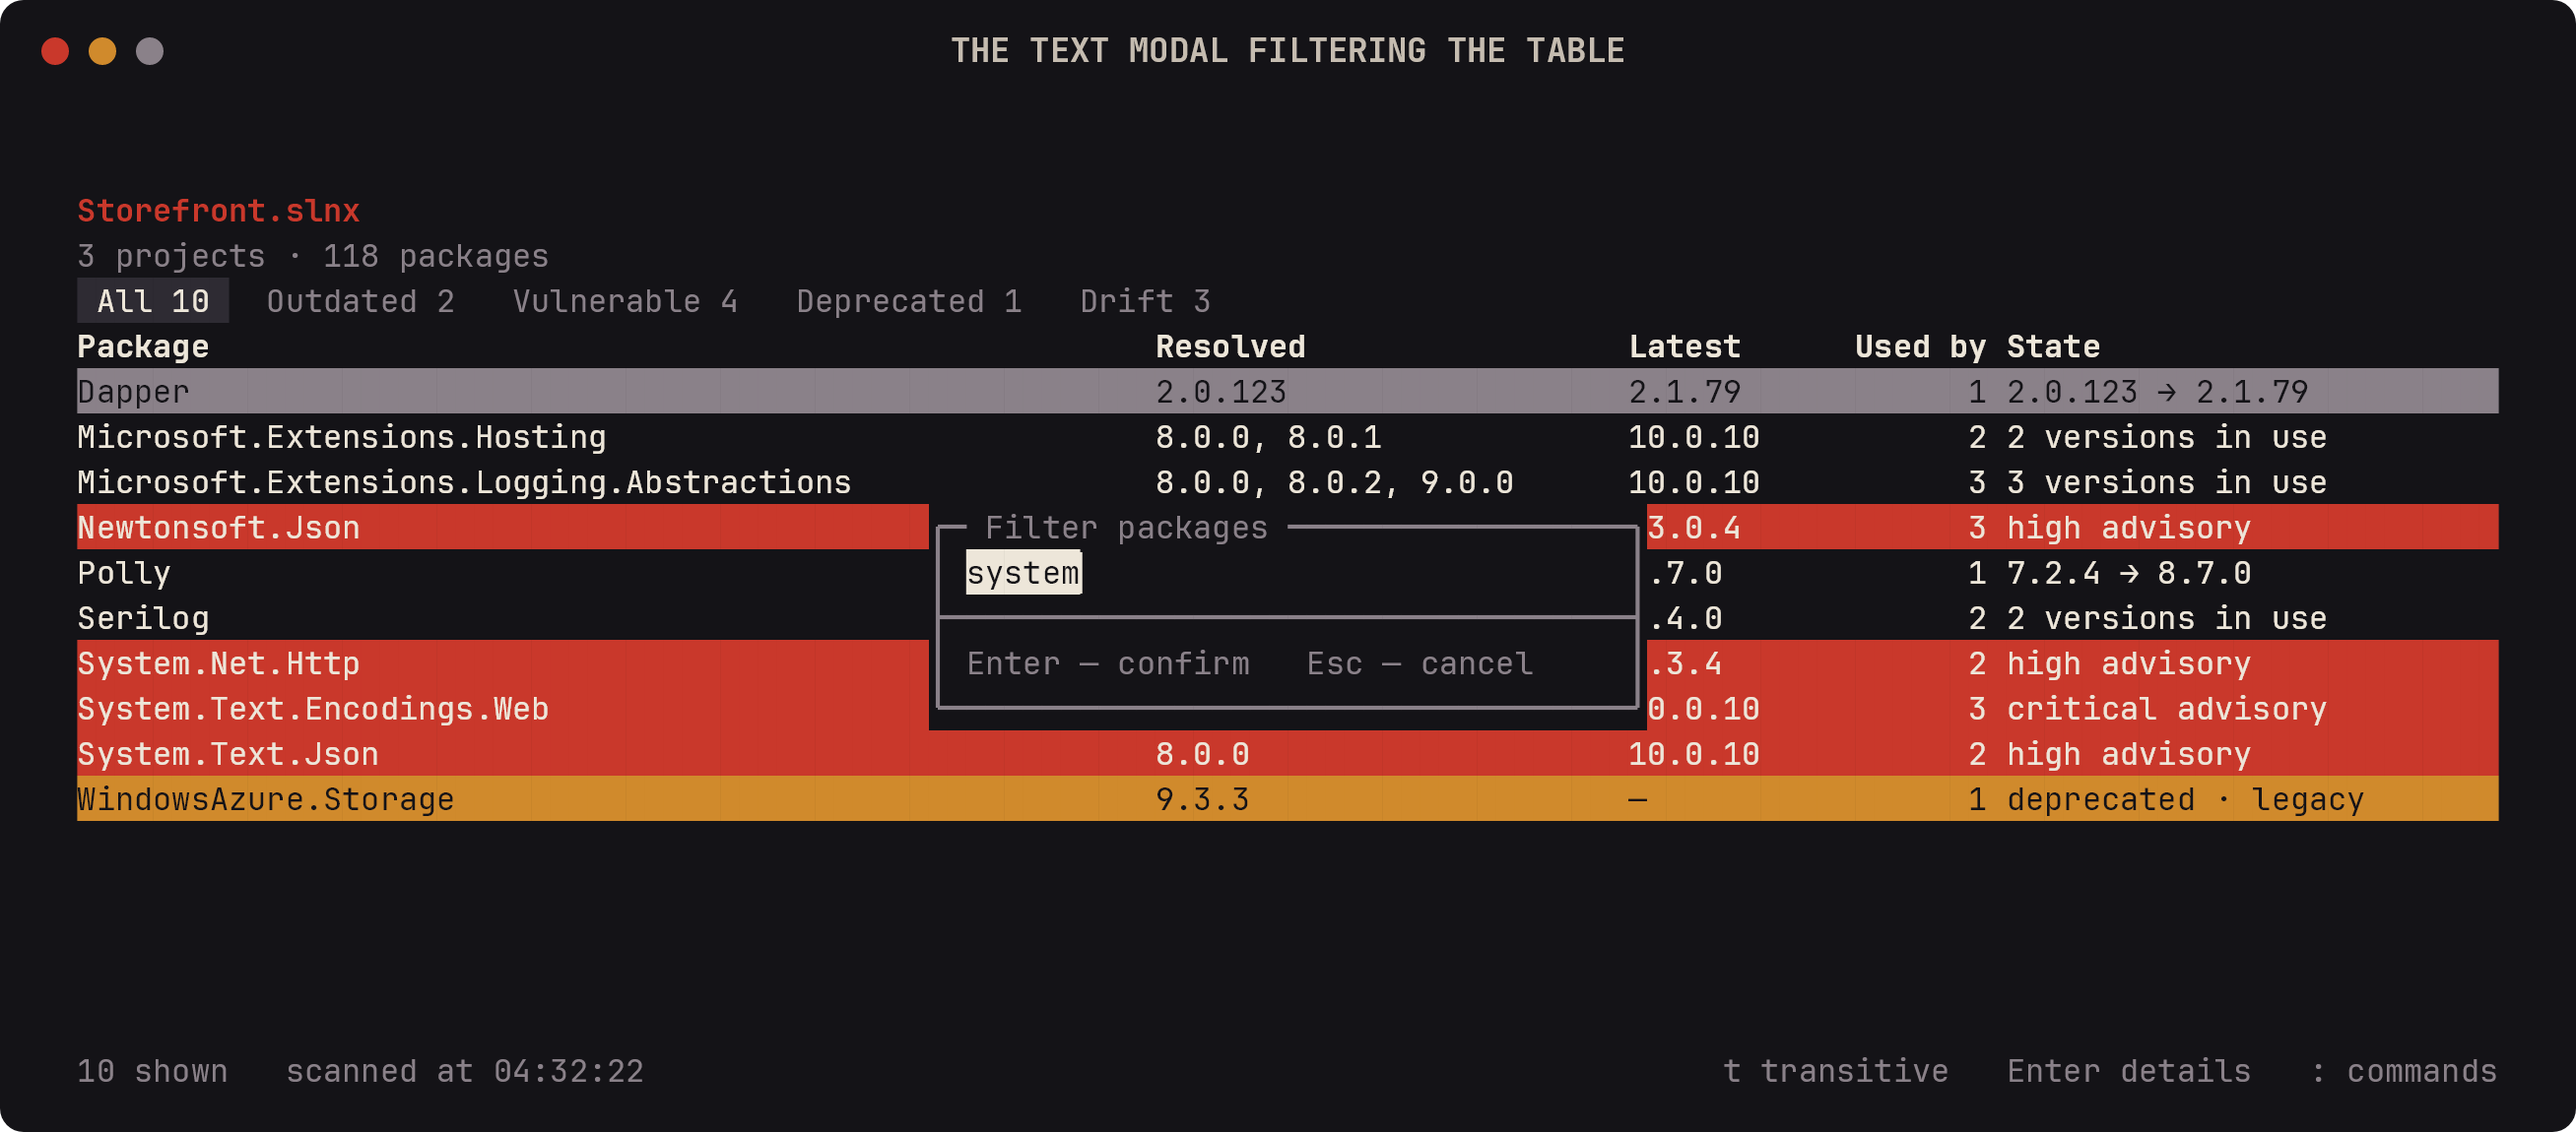
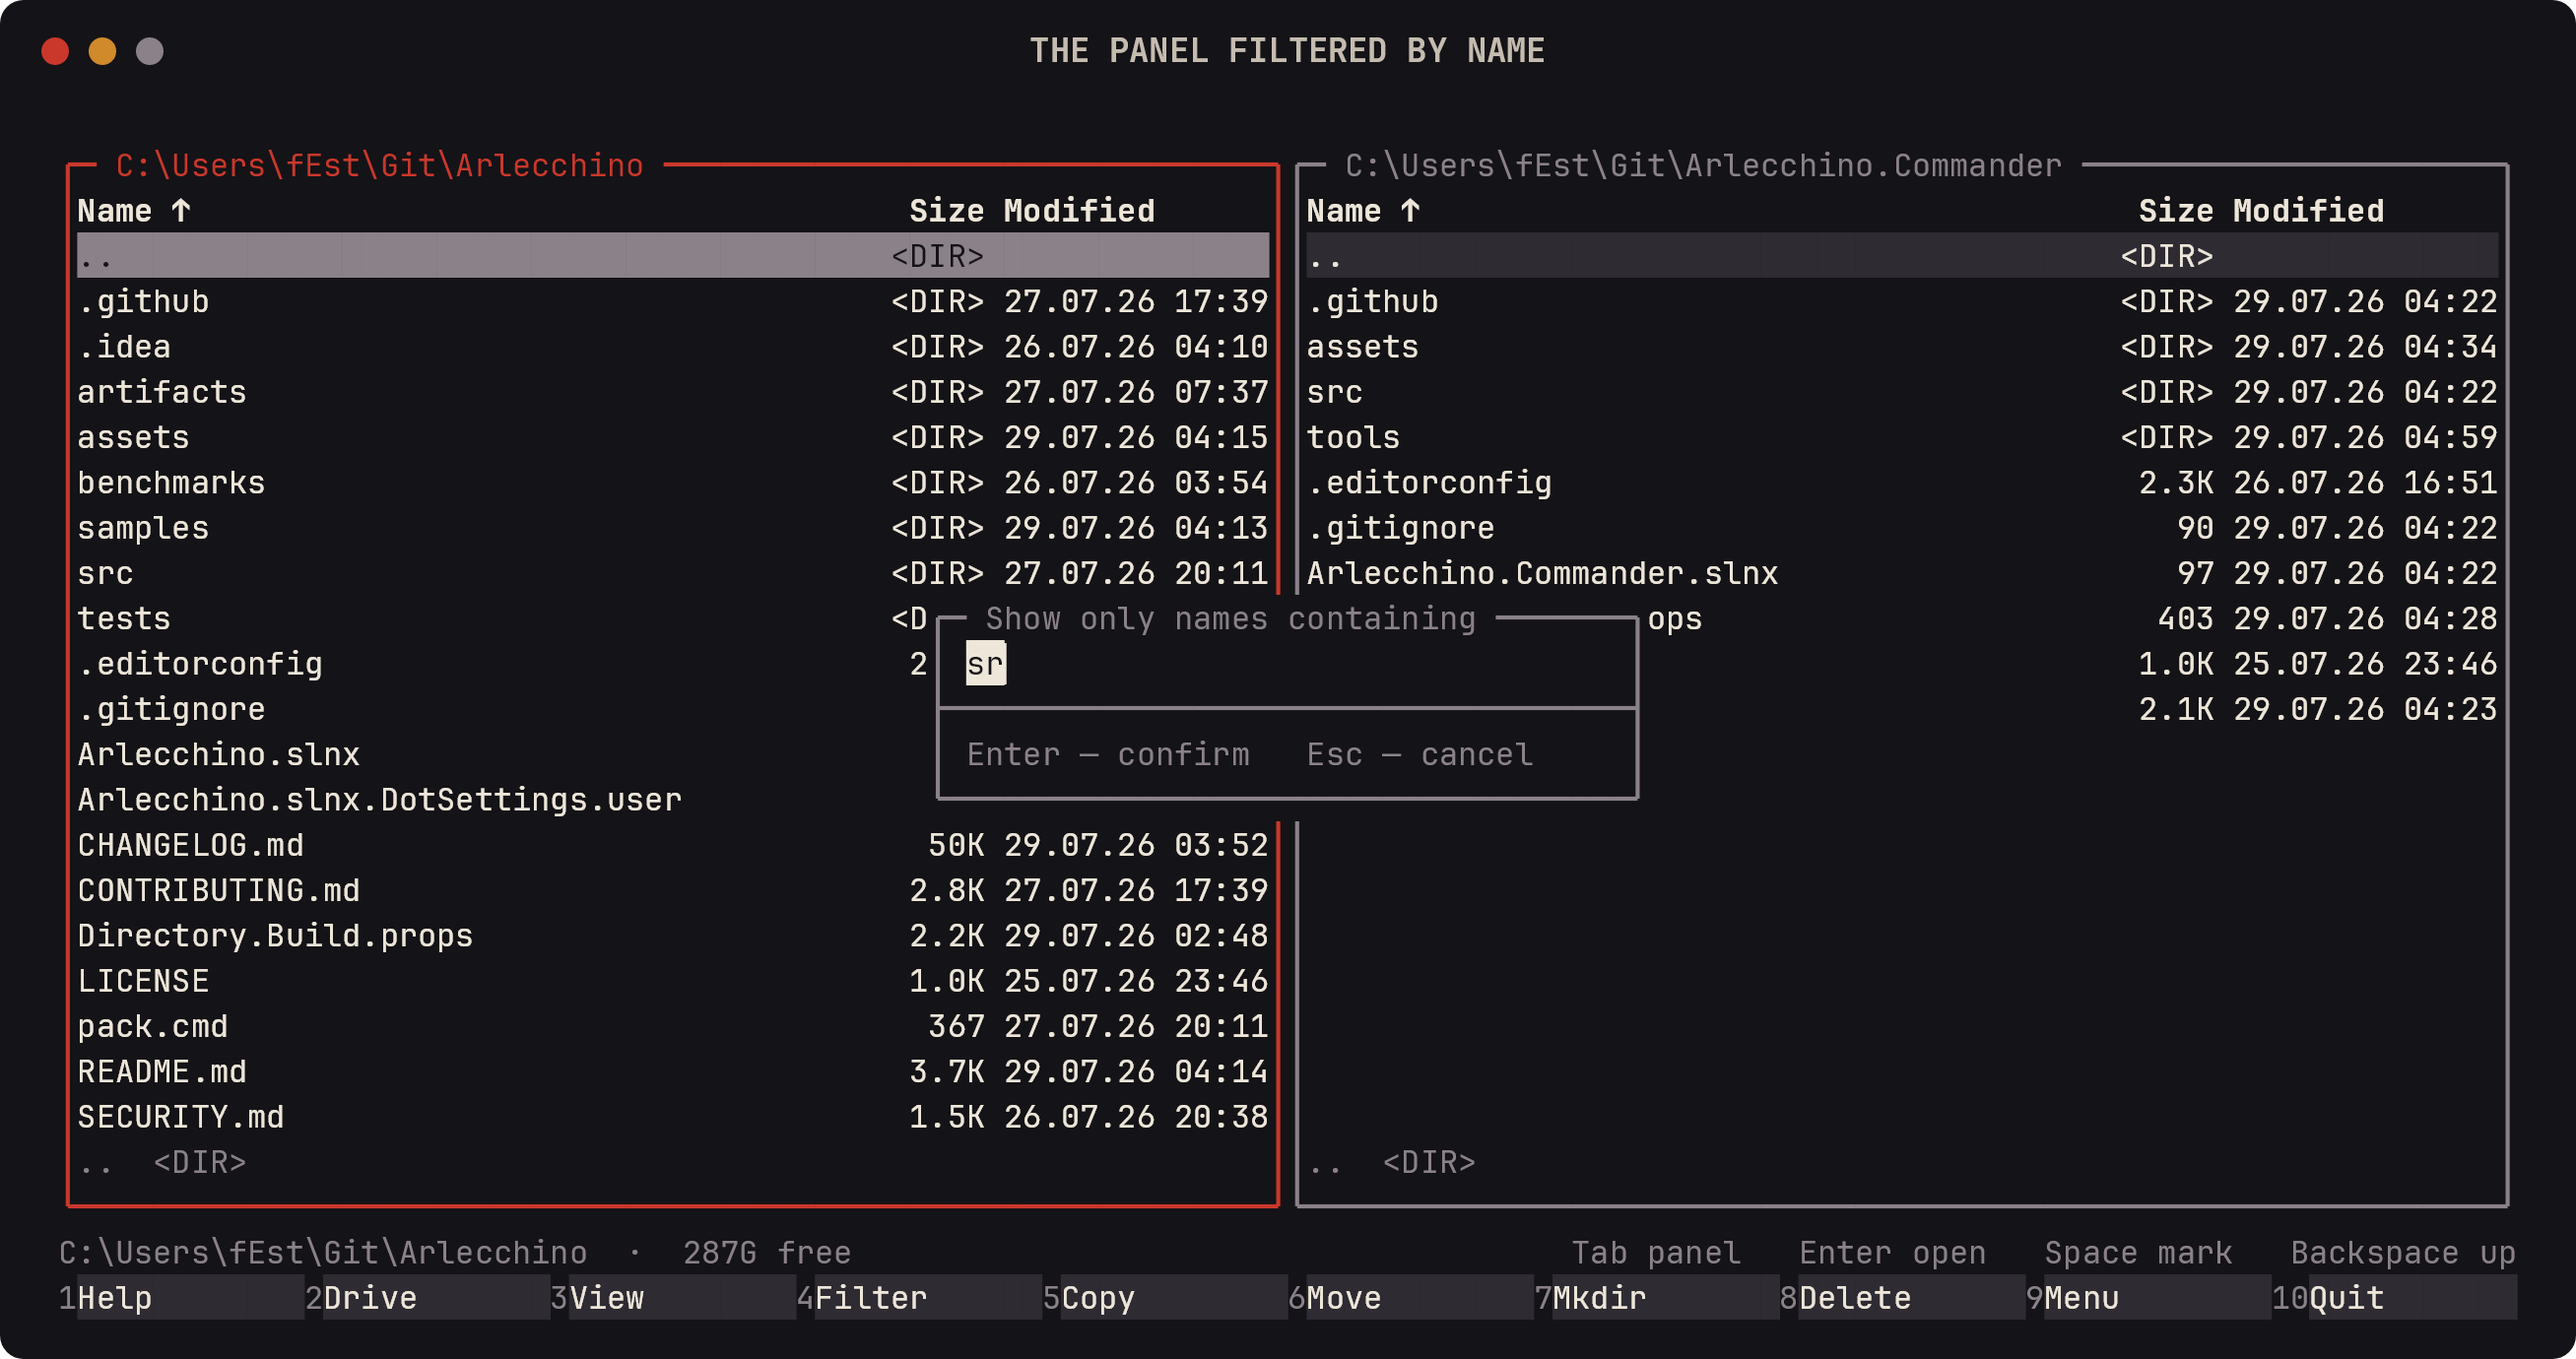
Show the commander in the docs instead of the sample that moved out

diff --git a/docs/src/pages/index.tsx b/docs/src/pages/index.tsx
@@ -202,13 +202,13 @@ function Screenshot(): ReactNode {
       <div className="container">
         <h2>What it looks like</h2>
         <p>
-          <Link to="/docs/showcase">Arlecchino.Packages</Link> is a dependency review of a .NET
-          solution built on the framework: a sortable table, tabs, a tree, a form on atoms, every
-          modal, the command palette and the file picker.
+          <Link to="/docs/showcase">Arlecchino.Commander</Link> is a Midnight Commander built on the
+          framework: two panels over local disks, SFTP and FTP, every modal, work that runs in the
+          background and reports itself, the command palette and the keys screen.
         </p>
         <img
-          src={useBaseUrl('img/screenshots/inventory.png')}
-          alt="Every package in the solution, coloured by what is wrong with it"
+          src={useBaseUrl('img/screenshots/panels.png')}
+          alt="Two panels over a local disk"
         />
       </div>
     </section>

diff --git a/docs/docs/showcase.md b/docs/docs/showcase.md
@@ -1,50 +1,82 @@
 ---
 title: Showcase
 sidebar_label: Showcase
-description: The three sample applications that ship in the repository, what each one demonstrates, and how to render any of their screens as a single frame.
+description: The applications built on Arlecchino, what each one demonstrates, and how to render any of their screens as a single frame.
 ---
 
 # Showcase
 
-Three applications ship in the repository. They are the readable version of everything on these pages:
-each one is built on the public API and nothing else.
+Three applications are the readable version of everything on these pages: each one is built on the
+public API and nothing else. Two ship beside the framework; the largest has a repository of its own.
 
-## Arlecchino.Packages
+## Arlecchino.Commander
 
-A dependency review for a .NET solution, and the largest of the three. It runs `dotnet list package`
-four times — the graph, newer versions, advisories, deprecations — merges the reports into one
-catalogue, and shows what came out across four screens.
+A Midnight Commander, and the largest of the three. Two panels, the function keys where they have
+always been, and the same panel over a local disk, an SFTP server or an FTP one. It lives in
+[its own repository](https://github.com/The1fEst/Arlecchino.Commander) and takes the framework from
+NuGet, the way an application of yours would.
 
 ```bash
-dotnet run --project samples/Arlecchino.Packages
+dotnet run --project src/Arlecchino.Commander -- C:\some\folder C:\another
 ```
 
-![Every package in the solution, coloured by what is wrong with it](/img/screenshots/inventory.png)
+![Two panels over a local disk](/img/screenshots/panels.png)
 
-With no arguments it reads the fixture solution kept beside it — three projects wired to packages that
-are outdated, vulnerable, deprecated and resolved at more than one version, so every screen has
-something to show without reaching for a real repository. `--solution <path>` points it at one of
-yours.
+Each panel is a [table](table.md) over one folder. `Space` marks a row, and what is marked is counted
+at the foot of the panel:
 
-| Screen | What it shows | Uses |
+![Three files marked, counted at the foot of the panel](/img/screenshots/marks.png)
+
+Either panel sorts by name, size or date, narrows down to a filter, and reads a file without leaving
+the panels:
+
+![The right panel sorted by size](/img/screenshots/sorted.png)
+
+![The panel filtered by name](/img/screenshots/filter.png)
+
+![A file read without leaving the panels](/img/screenshots/viewer.png)
+
+| Part | What it shows | Uses |
 |---|---|---|
-| Inventory | A filtered table behind tabs | [`Table`](table.md), [`Tabs`](tabs.md), [text modal](modals.md#text) |
-| Package | One package, its advisories and every project that pulls it in | [Regions](layout.md#regions), [`ListBox`](lists.md) |
-| Projects | The dependency tree beside a per-project table | [`Tree`](tree.md), [`FocusRing`](focus.md) |
-| Upgrade | A form that writes `dotnet add package` commands and can run them | [`Form`](forms.md), [atoms](atoms.md), every [modal](modals.md) |
+| The panels | Two tables in one layout, either of which may hold the focus | [`Table`](table.md), [`PaneTree`](layout.md), [`FocusRing`](focus.md) |
+| The menu | Sections of a menu offered as lists | [choice modal](modals.md), [view commands](commands.md) |
+| Copy, move, delete | Questions asked first, then the work off the drawing thread | [modals](modals.md), [rendering](rendering.md) |
+| Work in flight | A bar, what is being worked on now, and a key that stops it | [status bar](status-bar.md), [notifications](notifications.md) |
+| Servers | A panel over SFTP or FTP, and a screen that runs commands over SSH | [stores](stores.md), [`Form`](forms.md), [async atoms](async-atoms.md) |
 
-![The vulnerable tab](/img/screenshots/vulnerable.png)
+`F9` opens the menu, and what can be done to what is marked is one list under it:
 
-![The dependency tree beside a per-project table](/img/screenshots/projects.png)
+![The menu, opened by F9](/img/screenshots/menu.png)
 
-![The upgrade form and the commands it would run](/img/screenshots/upgrade.png)
+![What can be done to what is marked](/img/screenshots/file-menu.png)
+
+Copying and deleting ask first, with the negative answer selected, so a stray `Enter` cancels:
+
+![Copying asks where to](/img/screenshots/copy.png)
+
+![Deleting asks first, with no selected](/img/screenshots/delete.png)
+
+Work of any size runs in the background with a bar and `Esc` to stop it, and reports itself as a
+[notification](notifications.md) that opens in full and turns into what came of it:
+
+![A copy running in the background, with a bar and Esc to stop](/img/screenshots/progress.png)
+
+![The same copy opened in full, with Stop offered](/img/screenshots/notification.png)
+
+![The same entry once the copy is over](/img/screenshots/done.png)
+
+A panel connects by a `Host` entry from `~/.ssh/config`, browses the server as it browses a disk, and
+the same credentials run a command on it:
+
+![Hosts read from ~/.ssh/config](/img/screenshots/hosts.png)
+
+![A panel browsing a server over SFTP](/img/screenshots/server.png)
+
+![A command run on that server](/img/screenshots/ssh.png)
 
 It runs **without the output line**, so the bottom row belongs to the screen's own
-[status bar](status-bar.md), and `:h` turns the hints box off and on — the palette command flips
-`options.ShowHints` at runtime.
-
-The four screens render headlessly as `--frame inventory 120x30`, `--frame package 120x26`,
-`--frame projects 120x30` and `--frame upgrade 120x24`.
+[status bar](status-bar.md), and every screen renders headlessly — `--frame 132x26`, with `--keys` to
+play keys first and `--connect` to open a panel on a server.
 
 ## Arlecchino.Processes
 
@@ -72,10 +104,6 @@ the file picker.
 dotnet run --project samples/Arlecchino.Sample
 ```
 
-![The command palette over the inventory](/img/screenshots/palette.png)
-
-![The file picker asking for another solution](/img/screenshots/picker.png)
-
 The frame goes to stdout as ANSI text; the view name is `default`, `about`, `picker`, `widgets`, or one
 of `password`, `number`, `slider`, `toggle`, `multi`, `date`, `time`, `color` to render the matching
 modal over the default view:
@@ -86,13 +114,16 @@ dotnet run --project samples/Arlecchino.Sample -- --frame widgets 100x24
 
 ## Rendering any of them as a frame
 
-Every sample takes `--frame <view> <width>x<height>` and writes one composed frame to stdout. That is
-the fastest way to look at a layout, and it is three lines of wiring in an application of your own —
-see [Rendering](rendering.md#rendering-without-a-terminal).
+Every one of them takes `--frame` and writes a composed frame to stdout — the samples beside the
+framework name a view, the commander names a size. That is the fastest way to look at a layout, and it
+is three lines of wiring in an application of your own — see
+[Rendering](rendering.md#rendering-without-a-terminal).
+
+The command palette and the keys screen are the framework's own, and appear in every one of them:
+
+![The command palette](/img/screenshots/palette.png)
 
 ![The keys screen](/img/screenshots/help.png)
-
-![The log overlay](/img/screenshots/log.png)
 
 ## Built something?
 

diff --git a/docs/docs/getting-started.md b/docs/docs/getting-started.md
@@ -112,22 +112,19 @@ dotnet run --project samples/Arlecchino.Processes
 being written down twice. It renders headlessly too — `--frame processes 110x26` or
 `--frame details 90x18`.
 
-`Arlecchino.Packages` is the largest of the three: a dependency review for a .NET solution. It runs
-`dotnet list package` four times — the graph, newer versions, advisories, deprecations — merges the
-reports into one catalogue, and shows what came out across four screens: a filtered table behind
-[tabs](tabs.md), a package page with its advisories and every project that pulls it in, the
-dependency [tree](tree.md) beside a per-project table, and an upgrade [form](forms.md)
-that writes `dotnet add package` commands and can run them:
+[`Arlecchino.Commander`](https://github.com/The1fEst/Arlecchino.Commander) is the largest of the
+three, and the one with a repository of its own: a Midnight Commander with two panels, the function
+keys where they have always been, and the same panel over a local disk, an SFTP server or an FTP one.
+It takes the framework from NuGet, the way an application of yours would.
 
 ```
-dotnet run --project samples/Arlecchino.Packages
+dotnet run --project src/Arlecchino.Commander -- C:\some\folder C:\another
 ```
 
-It runs without the output line, so the bottom row belongs to the screen's own status bar, and `:h`
-turns the hints box off and on — the palette command flips `options.ShowHints` at runtime.
+Each panel is a [table](table.md); the menu behind `F9` is a [choice modal](modals.md) per section;
+copy, move and delete ask their questions as modals and then run off the drawing thread, reporting
+themselves as [notifications](notifications.md) with a bar and a key that stops them.
 
-With no arguments it reads the fixture solution kept beside it — three projects wired to packages
-that are outdated, vulnerable, deprecated and resolved at more than one version, so every screen has
-something to show without reaching for a real repository. `--solution <path>` points it at one of
-yours. The four screens render headlessly as `--frame inventory 120x30`, `--frame package 120x26`,
-`--frame projects 120x30` and `--frame upgrade 120x24`.
+It runs without the output line, so the bottom row belongs to the screen's own status bar. Every
+screen renders headlessly as `--frame 132x26`, with `--keys` to play keys first and `--connect` to
+open a panel on a server.

diff --git a/docs/docs/tutorial-packages.md b/docs/docs/tutorial-packages.md
@@ -6,11 +6,18 @@ description: Build Arlecchino.Packages from an empty project — a real terminal
 
 # Tutorial: a dependency review
 
-This builds `samples/Arlecchino.Packages` from an empty project. It is a real application rather than
-a widget gallery: it runs `dotnet list package` four times, merges the reports, and shows what came out
-across four screens.
+This builds a dependency review from an empty project. It is a real application rather than a widget
+gallery: it runs `dotnet list package` four times, merges the reports, and shows what came out across
+four screens.
 
-![Every package in the solution, coloured by what is wrong with it](/img/screenshots/inventory.png)
+:::note
+
+The application built here shipped in the framework's repository as `samples/Arlecchino.Packages`
+until 2.6.0, and the sample that ships now is
+[Arlecchino.Commander](https://github.com/The1fEst/Arlecchino.Commander) instead. Every line below
+still builds and runs — the project is simply one you create yourself.
+
+:::
 
 By the end you will have used almost everything the framework has — a
 [store](stores.md) of [atoms](atoms.md), an [async atom](async-atoms.md) with a spinner and a progress

diff --git a/docs/docs/table.md b/docs/docs/table.md
@@ -64,11 +64,11 @@ from the [`ListBox`](lists.md) inside, so everything on that page applies here.
 
 ## A worked example
 
-`samples/Arlecchino.Packages` is a sortable table of a solution's packages behind
-[tabs](tabs.md), coloured by what is wrong with each one:
+Each panel of [`Arlecchino.Commander`](https://github.com/The1fEst/Arlecchino.Commander) is a sortable
+table of one folder, coloured by what each row is — a folder, a marked file, a hidden one:
 
 ```bash
-dotnet run --project samples/Arlecchino.Packages -- --frame inventory 120x30
+dotnet run --project src/Arlecchino.Commander -- --frame 132x26 --left . --right src
 ```
 
 See [Showcase](showcase.md).

diff --git a/docs/docs/packages-and-building.md b/docs/docs/packages-and-building.md
@@ -317,7 +317,6 @@ that is the point of it.
 | `src/Arlecchino.Testing` | Headless test host published as a package |
 | `samples/Arlecchino.Sample` | Gallery of every modal and widget, also the headless `--frame` renderer |
 | `samples/Arlecchino.Processes` | A real application: the process list, live-loaded and sortable |
-| `samples/Arlecchino.Packages` | A dependency review of a solution: four screens over `dotnet list package` |
 | `benchmarks/Arlecchino.Benchmarks` | Frame composition, text measurement, input and atoms |
 | `tests/Arlecchino.Tests` | Test suite: rendering, navigation, every modal, colour conversion |
 | `docs` | This documentation |

diff --git a/docs/docs/tree.md b/docs/docs/tree.md
@@ -64,9 +64,9 @@ blocking the frame.
 
 ## A worked example
 
-The dependency screen of `samples/Arlecchino.Packages` is a tree of projects beside a per-project
-table, with transitive branches folded in:
+`samples/Arlecchino.Sample` shows a tree beside the rest of its gallery, with the branches folded in
+until they are opened:
 
 ```bash
-dotnet run --project samples/Arlecchino.Packages -- --frame projects 120x30
+dotnet run --project samples/Arlecchino.Sample -- --frame widgets 100x24
 ```

diff --git a/docs/docs/tabs.md b/docs/docs/tabs.md
@@ -73,8 +73,8 @@ different widgets rather than different rows of the same one.
 
 ## A worked example
 
-`samples/Arlecchino.Packages` narrows one table down to one kind of problem per tab:
+`samples/Arlecchino.Sample` puts its widget gallery behind tabs, one page each:
 
 ```bash
-dotnet run --project samples/Arlecchino.Packages -- --frame inventory 120x30
+dotnet run --project samples/Arlecchino.Sample -- --frame widgets 100x24
 ```
